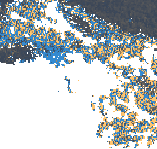
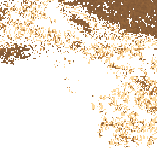
Show brightness increases above baseline

diff --git a/src/main.jsx b/src/main.jsx
@@ -22,7 +22,9 @@ const changeNumber = new Intl.NumberFormat('en-US', { maximumFractionDigits: 2, 
 const percent = new Intl.NumberFormat('en-US', { style: 'percent', maximumFractionDigits: 1 });
 
 function dataUrl(path) {
-  return new URL(path, new URL(`${base}data/`, window.location.href)).href;
+  const url = new URL(path, new URL(`${base}data/`, window.location.href));
+  url.searchParams.set('v', __MANIFEST_REVISION__);
+  return url.href;
 }
 
 function dateAtOffset(year, offset) {
@@ -268,12 +270,12 @@ function App() {
           {nationalView ? <div className="layer-picker">
             <label className="field-label" htmlFor="satellite-layer">SATELLITE LAYER</label>
             <select id="satellite-layer" value={satelliteLayer} onChange={event => setSatelliteLayer(event.target.value)}>
-              <option value="change">Brightness change</option>
+              <option value="change">Brighter than baseline</option>
               <option value="coverage">Matched coverage</option>
             </select>
           </div> : <>
             <span className="field-label">SATELLITE LAYER</span>
-            <div className="layer-label"><span className="light-dot" /> Brightness change <span className="pill">SATELLITE</span></div>
+            <div className="layer-label"><span className="light-dot" /> Brighter than baseline <span className="pill">SATELLITE</span></div>
           </>}
           <label className="opacity-label" htmlFor="opacity">Layer opacity <span>{opacity}%</span></label>
           <input id="opacity" type="range" min="10" max="100" value={opacity} disabled={!hasRaster} onChange={event => setOpacity(Number(event.target.value))} />
@@ -281,7 +283,7 @@ function App() {
           <div className="status-card" aria-live="polite"><span className="status-dot" /><div><strong>{stateLabel}</strong>
             {nationalView ? <>
               <p>Event brightness compared with the median of at least three ordinary nights.</p>
-              <p>Brightness is shown where at least {percent.format(nationalView.minCoverage)} of a cell has matched coverage.</p>
+              <p>Brightness increases are shown where at least {percent.format(nationalView.minCoverage)} of a cell has matched coverage.</p>
               <p>Use Map View to explore Alaska, Hawaii, and the Western Aleutians.</p>
             </> : showOverview && hasRaster ? <>
               <p>{observations.map(item => item.name).join(' and ')} have published comparisons. Each uses its own baseline.</p>
@@ -309,10 +311,10 @@ function App() {
               <div className="legend-labels"><span>0%</span><span>100%</span></div>
               <p>Share of each cell with usable event and baseline readings.</p>
             </div> : hasRaster && <div className="map-legend">
-              <span>CHANGE FROM BASELINE</span>
+              <span>ABOVE BASELINE</span>
               <div className="legend-ramp" style={{ background: `linear-gradient(90deg, ${legend.colors.join(', ')})` }} />
-              <div className="legend-labels"><span>≤ −{legend.limit}</span><span>0</span><span>≥ +{legend.limit}</span></div>
-              <p>{unit} · blue dimmer · gold brighter<br />{nationalView ? `Shown at ${percent.format(nationalView.minCoverage)} coverage or higher.` : 'Transparent areas lack a usable comparison.'}</p>
+              <div className="legend-labels"><span>0</span><span>≥ +{legend.limit}</span></div>
+              <p>{unit} above baseline{nationalView ? ` · at least ${percent.format(nationalView.minCoverage)} matched coverage.` : ''}</p>
             </div>}
           </div>
           <div className="timeline">

diff --git a/scripts/prepare-national.py b/scripts/prepare-national.py
@@ -21,7 +21,7 @@ REGIONS = {
     "alaska_east_longitude": ("Western Aleutians", (172, 51, 180, 56)),
     "hawaii": ("Hawaii", (-179, 18, -154, 29)),
 }
-CHANGE_COLORS = ["#348ad0", "#3b4657", "#ffc56e"]
+CHANGE_COLORS = ["#7d5636", "#d4924c", "#ffdda2"]
 COVERAGE_COLORS = ["#4a3b53", "#65d9bc"]
 CHANGE_LIMIT = 5
 MIN_COVERAGE = 0.25
@@ -75,15 +75,16 @@ def prepare_tile(path, name, bounds, asset, bands, source_transform):
     grid = display_grid(bands, source_transform, bounds)
     change, coverage = grid
     width, height = change.shape[1], change.shape[0]
-    visible = np.isfinite(change) & (coverage >= MIN_COVERAGE)
+    eligible = np.isfinite(change) & (coverage >= MIN_COVERAGE)
+    visible = eligible & (change > 0)
     known = np.isfinite(coverage)
     DATA.joinpath(asset).parent.mkdir(parents=True, exist_ok=True)
     change_url, coverage_url, pixels_url = f"{asset}.png", f"{asset}-coverage.png", f"{asset}-pixels.json"
-    save_layer(DATA / change_url, change, visible, [-CHANGE_LIMIT, 0, CHANGE_LIMIT], CHANGE_COLORS)
+    save_layer(DATA / change_url, change, visible, [0, CHANGE_LIMIT / 2, CHANGE_LIMIT], CHANGE_COLORS)
     save_layer(DATA / coverage_url, coverage, known, [0, 1], COVERAGE_COLORS)
     cells = [None] * coverage.size
     for index in np.flatnonzero(known):
-        value = round(float(change.flat[index]), 4) if visible.flat[index] else None
+        value = round(float(change.flat[index]), 4) if eligible.flat[index] else None
         cells[index] = [value, round(float(coverage.flat[index]), 6)]
     (DATA / pixels_url).write_text(
         json.dumps({"width": width, "height": height, "cells": cells}, separators=(",", ":")),
@@ -102,7 +103,8 @@ def prepare_tile(path, name, bounds, asset, bands, source_transform):
             "inputSha256": hashlib.sha256(path.read_bytes()).hexdigest(),
         },
         "matchedCells": int(np.isfinite(bands[0]).sum()),
-        "displayedCells": int((bands[1] >= MIN_COVERAGE).sum()),
+        "eligibleCells": int((bands[1] >= MIN_COVERAGE).sum()),
+        "displayedCells": int(((bands[0] > 0) & (bands[1] >= MIN_COVERAGE)).sum()),
     }
 
 

diff --git a/scripts/prepare-dallas-pilot.py b/scripts/prepare-dallas-pilot.py
@@ -13,7 +13,7 @@ from rasterio.warp import transform
 
 ROOT = Path(__file__).resolve().parents[1]
 DATA = ROOT / "public" / "data"
-COLORS = ["#348ad0", "#3b4657", "#ffc56e"]
+COLORS = ["#7d5636", "#d4924c", "#ffdda2"]
 LIMIT = 5
 OBSERVATIONS = {
     "dallas": {
@@ -90,11 +90,14 @@ def main():
     height, width = valid.shape
     rgba = np.zeros((height, width, 4), dtype=np.uint8)
     palette = np.array([ImageColor.getrgb(color) for color in COLORS])
+    brighter = change > 0
+    visible = valid.copy()
+    visible[valid] = brighter
     for channel in range(3):
-        rgba[valid, channel] = np.interp(
-            change, [-LIMIT, 0, LIMIT], palette[:, channel],
+        rgba[visible, channel] = np.interp(
+            change[brighter], [0, LIMIT / 2, LIMIT], palette[:, channel],
         ).round().astype(np.uint8)
-    rgba[valid, 3] = 255
+    rgba[visible, 3] = 255
 
     output = DATA / asset
     output.parent.mkdir(parents=True, exist_ok=True)

diff --git a/docs/methodology.md b/docs/methodology.md
@@ -55,7 +55,7 @@ The [paired comparison](../earth-engine/04-dallas-paired-comparison.js) matches 
 
 The mean was lower on the event night in all four usable pairs. The positive October 7 median shows that the distribution of local changes differed from the overall mean. These are descriptive results for the Dallas pilot. Coverage differs by pair, and the comparison retains differences in overpass time and viewing geometry.
 
-The [Dallas export script](../earth-engine/05-export-dallas-pilot.js) prepares a GeoTIFF using the fixed-grid pilot baseline. Its four bands store event radiance, baseline median, signed change, and usable control count. The [converter](../scripts/prepare-dallas-pilot.py) derives the geographic corners from the Web Mercator export and keeps missing cells transparent. The map clips colors to ±5 nW/cm²/sr and shows the pixel value on click. Reprojection changes the number of display cells. The reported 22,340 comparisons refer to the original analysis grid.
+The [Dallas export script](../earth-engine/05-export-dallas-pilot.js) prepares a GeoTIFF using the fixed-grid pilot baseline. Its four bands store event radiance, baseline median, signed change, and usable control count. The [converter](../scripts/prepare-dallas-pilot.py) derives the geographic corners from the Web Mercator export. The map colors positive changes up to +5 nW/cm²/sr and provides signed readings on click. Reprojection changes the number of display cells. The reported 22,340 comparisons refer to the original analysis grid.
 
 Overnight playback is deferred while the MVP tests measured brightness against a baseline. Tracking lights that switch off or stay on requires repeat readings of the same place within one night, aligned and screened for comparable conditions.
 
@@ -135,7 +135,7 @@ The [NOAA-20 national screen](../earth-engine/09-screen-united-states.js) found 
 
 DC had six matches among seven sampled locations. West Virginia had usable event readings at nearly all sampled locations, but few met the control requirement. For the national map, the regional GeoTIFFs preserve both signed brightness change and the fraction of each cell with matched coverage so that areas with sparse observations remain distinguishable.
 
-The four exports contain 204,809 source cells with some matched coverage. The national brightness map shows the 144,041 cells that reach the 25% coverage threshold, including 139,171 in the lower 48, 4,304 in Alaska, and 566 in Hawaii. The tile on the positive-longitude side of the Alaska antimeridian contains mapped cells at 0% matched coverage. The source-cell totals are distinct from the state screen, which samples grid centers instead of aggregating the underlying pixels. The dashboard uses nearest-neighbor resampling for the Web Mercator display and keeps the ±5 nW/cm²/sr color range.
+The four exports contain 204,809 source cells with some matched coverage. Of these, 144,041 reach the 25% coverage threshold and 79,306 also have positive mean change. The national brightness map colors those increases from 0 to +5 nW/cm²/sr, while the coverage layer shows all measured coverage fractions, including 0% in the Western Aleutians. These source-cell totals differ from the state screen, which samples grid centers. The dashboard uses nearest-neighbor resampling for the Web Mercator display.
 
 ### Remaining checks
 

diff --git a/README.md b/README.md
@@ -6,7 +6,7 @@ An open experiment: can unusual nighttime brightness around Diwali be detected i
 
 ## Current state
 
-The dashboard includes 2025 and 2026 views and a date slider. Select **United States** under **Observation** on the 2025 festival date for the national NOAA-20 comparison. Switch between **Brightness change** and **Matched coverage**, or use **Map View** to explore Alaska, Hawaii, and the Western Aleutians. The city markers open the Dallas–Fort Worth and Los Angeles pilots, which use separate baselines. Click a map cell to inspect the data. See the [2025 results](docs/methodology.md#2025-national-coverage-screen).
+The dashboard includes 2025 and 2026 views and a date slider. Select **United States** under **Observation** on the 2025 festival date for the national NOAA-20 comparison. Switch between **Brighter than baseline** and **Matched coverage**, or use **Map View** to explore Alaska, Hawaii, and the Western Aleutians. The city markers open the Dallas–Fort Worth and Los Angeles pilots, which use separate baselines. Click a map cell to inspect the data. See the [2025 results](docs/methodology.md#2025-national-coverage-screen).
 
 ## Run locally
 
@@ -39,7 +39,7 @@ Run the [national coverage script](earth-engine/09-screen-united-states.js) with
 
 Set `CREATE_EXPORTS = true` to create four GeoTIFF tasks for the lower 48, Hawaii, and both sides of Alaska's antimeridian. Each export contains the mean change over matched observations and the fraction of each 0.05° cell that had matched coverage within state boundaries. Those fractions can mask low coverage when building the dashboard layer. Start the batch exports from the Tasks panel.
 
-With the four GeoTIFFs in one directory, run `python scripts/prepare-national.py --year 2025 "path-to-export-directory"` using the dependencies below. The converter verifies the two data bands and shared grid, then generates both map layers and the pixel readings. The brightness layer shows cells with at least 25% matched coverage. The coverage layer includes cells at 0%.
+With the four GeoTIFFs in one directory, run `python scripts/prepare-national.py --year 2025 "path-to-export-directory"` using the dependencies below. The converter verifies the two data bands and shared grid, then generates both map layers and the pixel readings. The brightness layer shows increases where matched coverage reaches 25%. The coverage layer includes cells at 0%.
 
 ## Rebuild the metro overlays
 
